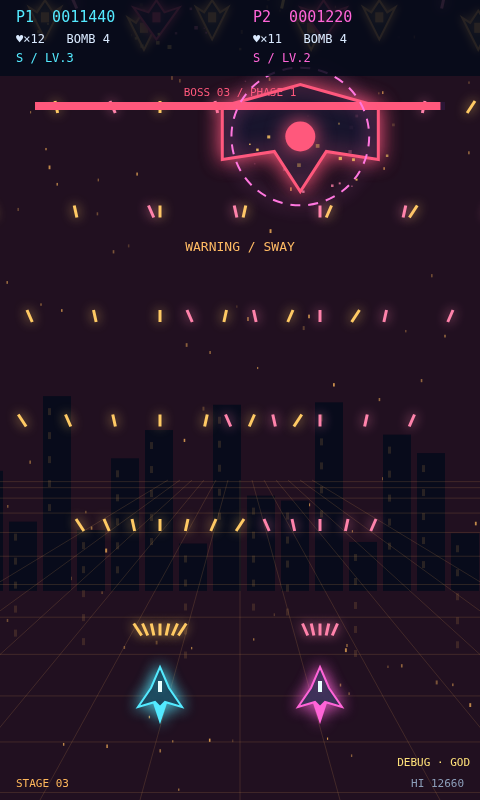
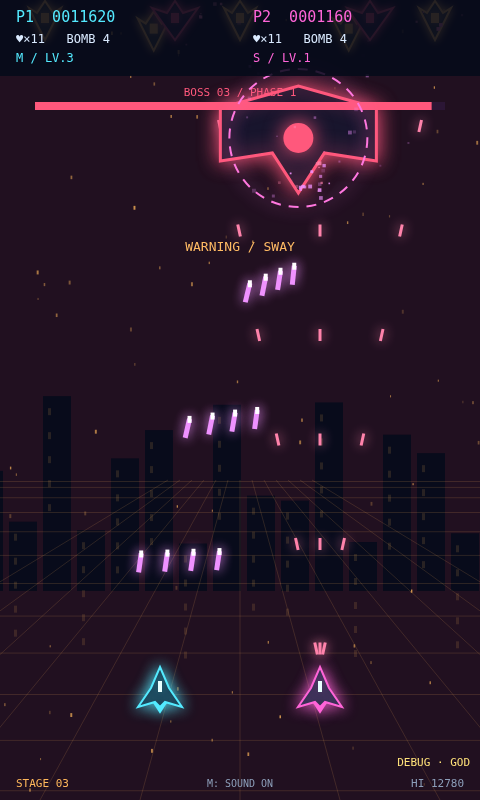
Add procedural Web Audio BGM and SFX (shots, bomb) with M mute toggle

diff --git a/js/audio.js b/js/audio.js
@@ -1,0 +1,126 @@
+// 离线合成音频。所有 Web Audio 操作都允许失败，游戏不等待音频。
+'use strict';
+(() => {
+  const safe = fn => { try { return fn(); } catch (error) {} };
+  let ctx, master, layer, current = '', next = 0, step = 0;
+  let muted = safe(() => localStorage.getItem('neon-vector-muted')) === 'true';
+  const shots = new Map();
+  NV.AUDIO = {
+    tracks: [
+      { name: 'harbor', root: 57, notes: [0, 7, 12, 10, 7, 3, 5, 7] },
+      { name: 'rift', root: 55, notes: [0, 3, 7, 10, 12, 7, 5, 3] },
+      { name: 'corona', root: 60, notes: [0, 5, 7, 12, 10, 7, 2, 5] }
+    ]
+  };
+  function tone(bus, time, frequency, duration, volume, type = 'sine', end = frequency, cutoff = 1400) {
+    const oscillator = ctx.createOscillator(), gain = ctx.createGain(), filter = ctx.createBiquadFilter();
+    oscillator.type = type;
+    oscillator.frequency.setValueAtTime(frequency, time);
+    oscillator.frequency.exponentialRampToValueAtTime(end, time + duration);
+    filter.type = 'lowpass'; filter.frequency.setValueAtTime(cutoff, time);
+    gain.gain.setValueAtTime(0, time);
+    gain.gain.linearRampToValueAtTime(volume, time + .008);
+    gain.gain.exponentialRampToValueAtTime(.0001, time + duration);
+    oscillator.connect(filter); filter.connect(gain); gain.connect(bus);
+    oscillator.onended = () => safe(() => { oscillator.disconnect(); filter.disconnect(); gain.disconnect(); });
+    oscillator.start(time); oscillator.stop(time + duration + .02);
+  }
+  function select(game) {
+    const data = NV.AUDIO.tracks[((game?.stage || 1) - 1) % NV.AUDIO.tracks.length];
+    const menu = !game || ['menu', 'gameover', 'victory'].includes(game.state);
+    const boss = !menu && !!game.boss;
+    return { data, name: menu ? 'menu' : (boss ? 'boss-' : 'stage-') + data.name,
+      beat: menu ? .48 : boss ? .21 : .34, root: menu ? 57 : data.root,
+      notes: menu ? [0, 4, 7, 11, 7, 4, 2, 7] : boss ? [0, 12, 7, 3, 0, 10, 7, 5] : data.notes };
+  }
+  function update(game) {
+    safe(() => {
+      const track = select(game), changed = current !== track.name;
+      current = track.name;
+      if (!ctx || ctx.state !== 'running') return;
+      const now = ctx.currentTime;
+      if (changed || !layer) {
+        if (layer) {
+          const old = layer;
+          old.gain.cancelScheduledValues(now);
+          old.gain.setTargetAtTime(0, now, .10);
+          // 已排音符最长 .7 秒；稍后释放旧总线。
+          if (typeof setTimeout === 'function') setTimeout(() => safe(() => old.disconnect()), 1500);
+        }
+        layer = ctx.createGain(); layer.gain.setValueAtTime(0, now);
+        layer.gain.linearRampToValueAtTime(1, now + .4); layer.connect(master);
+        next = now + .02; step = 0;
+      }
+      if (next < now) next = now + .02; // 标签页恢复时不补排历史音符。
+      while (next < now + .15) {
+        const note = track.notes[step % track.notes.length];
+        const hz = 440 * 2 ** ((track.root + note - 69) / 12);
+        tone(layer, next, hz, .65, .045, 'triangle');
+        if (step % 4 === 0) tone(layer, next, hz / 4, .7, .035);
+        next += track.beat; step++;
+      }
+    });
+  }
+  function unlock() {
+    safe(() => {
+      if (!ctx) {
+        const Audio = window.AudioContext || window.webkitAudioContext;
+        if (!Audio) return;
+        const candidate = new Audio();
+        try {
+          const bus = candidate.createGain(), compressor = candidate.createDynamicsCompressor();
+          bus.gain.setValueAtTime(muted ? 0 : .65, candidate.currentTime);
+          compressor.threshold.setValueAtTime(-18, candidate.currentTime);
+          compressor.ratio.setValueAtTime(8, candidate.currentTime);
+          bus.connect(compressor); compressor.connect(candidate.destination);
+          ctx = candidate; master = bus;
+        } catch (error) { safe(() => candidate.close()?.catch(() => {})); return; }
+        if (typeof setInterval === 'function') setInterval(() => update(NV.game), 25);
+      }
+      if (ctx.state === 'suspended') {
+        const pending = ctx.resume();
+        if (pending?.then) pending.then(() => update(NV.game)).catch(() => {});
+      }
+      update(NV.game);
+    });
+  }
+  function toggle() {
+    muted = !muted;
+    safe(() => localStorage.setItem('neon-vector-muted', String(muted)));
+    safe(() => master.gain.setTargetAtTime(muted ? 0 : .65, ctx.currentTime, .04));
+  }
+  NV.sound = Object.freeze({
+    unlock, toggle, update,
+    shoot(player) {
+      safe(() => {
+        if (!ctx || muted || ctx.state !== 'running') return;
+        const now = ctx.currentTime;
+        if (now - (shots.get(player.id) ?? -Infinity) < .08) return;
+        shots.set(player.id, now);
+        const voices = { N: [720, 320, 'sine'], S: [420, 160, 'triangle'], L: [1200, 600, 'sine'], M: [230, 70, 'triangle'] };
+        const [start, end, type] = voices[player.weapon] || voices.N;
+        tone(master, now, start, .065, .045, type, end, 1800);
+      });
+    },
+    bomb() {
+      safe(() => {
+        if (!ctx || muted || ctx.state !== 'running') return;
+        const now = ctx.currentTime, duration = .8;
+        const buffer = ctx.createBuffer(1, Math.ceil(ctx.sampleRate * duration), ctx.sampleRate);
+        const data = buffer.getChannelData(0);
+        for (let i = 0; i < data.length; i++) data[i] = Math.random() * 2 - 1;
+        const source = ctx.createBufferSource(), filter = ctx.createBiquadFilter(), gain = ctx.createGain();
+        source.buffer = buffer; filter.type = 'lowpass';
+        filter.frequency.setValueAtTime(800, now); filter.frequency.exponentialRampToValueAtTime(65, now + duration);
+        gain.gain.setValueAtTime(.16, now); gain.gain.exponentialRampToValueAtTime(.0001, now + duration);
+        source.connect(filter); filter.connect(gain); gain.connect(master);
+        source.onended = () => safe(() => { source.disconnect(); filter.disconnect(); gain.disconnect(); });
+        source.start(now); source.stop(now + duration);
+        tone(master, now, 95, .7, .18, 'sine', 28, 250);
+      });
+    }
+  });
+  Object.defineProperty(NV, 'audio', { value: Object.freeze({
+    loaded: true, get muted() { return muted; }, get ready() { return !!ctx; }, get track() { return current || 'menu'; }
+  }), writable: false });
+})();

diff --git a/js/input.js b/js/input.js
@@ -13,7 +13,10 @@ NV.input = {
   padPrevious: [],
   /* 注册键盘事件，并在窗口失焦时暂停。 */
   init() {
+    window.addEventListener('pointerdown', () => NV.sound?.unlock());
     window.addEventListener('keydown', event => {
+      NV.sound?.unlock();
+      if (event.code === 'KeyM' && !event.repeat && !this.held.has('KeyM')) NV.sound?.toggle();
       if (['Space', 'Enter', 'ArrowUp', 'ArrowDown', 'ArrowLeft', 'ArrowRight', 'Escape', 'Slash'].includes(event.code)) {
         event.preventDefault();
       }
@@ -40,6 +43,7 @@ NV.input = {
       gamepads = Array.from(navigator.getGamepads?.() || []).filter(Boolean);
     } catch (event) {}
     this.pads = gamepads;
+    if (gamepads.some(pad => pad.buttons.some(button => button.pressed) || pad.axes.some(axis => Math.abs(axis) > .18))) NV.sound?.unlock();
     for (let playerIndex = 0; playerIndex < gamepads.length; playerIndex++) {
       let gamepad = gamepads[playerIndex];
       let previousButtons = this.padPrevious[playerIndex] || [];

diff --git a/js/render.js b/js/render.js
@@ -251,6 +251,7 @@ NV.render = function (game) {
       text(player.weapon + ' / LV.' + player.level + (player.lives <= 0 ? '  OFFLINE' : ''), x, 62, 12, player.color, 'left');
     }
     text('STAGE 0' + game.stage, 16, 787, 11, theme.accent, 'left');
+    text('M: SOUND ' + (NV.audio.muted ? 'OFF' : 'ON'), 240, 787, 10, '#8c9eb9');
     text('HI ' + game.highScore, 464, 787, 11, '#8c9eb9', 'right');
   }
   if (game.state === 'menu') {
@@ -272,6 +273,7 @@ NV.render = function (game) {
     }
     text('↑ ↓ / W S 选择 · ENTER / SPACE 确认', 240, 584, 12);
     text('也可按 1 或 2 直接开始', 240, 610, 12, '#8c9eb9');
+    text('M: SOUND ' + (NV.audio.muted ? 'OFF' : 'ON'), 240, 638, 12, '#8c9eb9');
     text('P1  WASD · SPACE · Q', 240, 672, 12, '#54eaff');
     text('P2  方向键 · ENTER · 右 SHIFT', 240, 697, 12, '#ff65d8');
     text('P / ESC 暂停     HI ' + game.highScore, 240, 752, 12, '#8c9eb9');

diff --git a/js/main.js b/js/main.js
@@ -100,6 +100,7 @@
     update(deltaTime) {
       this.clock += deltaTime;
       NV.input.poll();
+      NV.sound?.update(this);
       const input = NV.input;
       if (this.state === 'menu') {
         if (input.tap('ArrowUp') || input.tap('KeyW') || input.tap('ArrowDown') || input.tap('KeyS')) {

diff --git a/js/player.js b/js/player.js
@@ -59,6 +59,7 @@ NV.updatePlayers = function (game, deltaTime) {
     }
     if (controls.bomb && player.bombs > 0) {
       player.bombs--;
+      NV.sound?.bomb();
       game.bullets = [];
       game.flash = .65;
       for (let enemy of game.enemies.concat(game.boss ? [game.boss] : [])) {

diff --git a/index.html b/index.html
@@ -17,6 +17,7 @@
       ></canvas>
     </main>
     <script src="js/input.js"></script>
+    <script src="js/audio.js"></script>
     <script src="js/difficulty.js"></script>
     <script src="js/weapons.js"></script>
     <script src="js/player.js"></script>

diff --git a/js/weapons.js b/js/weapons.js
@@ -9,6 +9,7 @@ NV.weaponColors = {
 };
 /* 按武器和等级生成子弹，保留玩家归属。 */
 NV.shoot = function (game, player) {
+  NV.sound?.shoot(player);
   let level = player.level;
   let weapon = player.weapon;
   let color = player.id ? {

diff --git a/tests/browser-verify.py b/tests/browser-verify.py
@@ -22,6 +22,15 @@ async def main():
         b=await p.chromium.launch()
         # 仅测试脚本注入状态，不添加游戏调试键；file:// 离线验证。
         pg=await newpage(b,BASE)
+        assert await pg.evaluate("NV.audio.loaded === true && NV.audio.ready === false")
+        muted = await pg.evaluate("NV.audio.muted")
+        await pg.keyboard.press('KeyX')
+        await pg.wait_for_function("NV.audio.ready === true")
+        await pg.keyboard.press('KeyM')
+        assert await pg.evaluate("NV.audio.muted") != muted
+        await pg.keyboard.press('KeyM')
+        assert await pg.evaluate("NV.audio.muted") == muted
+        results['audio'] = await pg.evaluate("({...NV.audio})")
         await pg.keyboard.press('Digit2')
         await pg.wait_for_function("NV.game.players.length===2 && NV.game.mode===2")
         assert all(p['lives']==10 for p in (await snap(pg))['players'])
@@ -166,4 +175,5 @@ async def main():
         await b.close()
     print(json.dumps(results,ensure_ascii=False,indent=0))
     print("ERRORS:",errors)
+    assert not errors, errors
 asyncio.run(main())

diff --git a/README.md b/README.md
@@ -7,6 +7,7 @@
 - 菜单：上下键或 W/S 选择，Enter / 空格确认；1 / 2 直接开始单人 / 双人。
 - P1：WASD 移动，空格射击，Q 或左 Shift 炸弹。
 - P2：方向键移动，Enter 射击，右 Shift 或 / 炸弹。
+- M：切换声音开关，自动保存静音设置。
 - P 或 Esc 暂停 / 继续；结束或通关后 Enter / R 返回菜单。
 - 手柄：第一个已连接手柄控制 P1，第二个控制 P2。左摇杆 / 十字键移动，A 射击，B 炸弹，Start 暂停；菜单可按第一个手柄 Start 开始。手柄 API 是否可用取决于浏览器及 file:// 安全策略；键盘始终可玩。
 
@@ -121,3 +122,11 @@ node tests/sim-test.cjs
 python tests/browser-verify.py
 python tests/browser-verify-drops.py
 ```
+
+## 合成音频
+
+所有声音由 Web Audio API 在本地程序化合成，无音频文件、依赖或网络请求。首次键盘、指针或手柄操作后才创建 / 恢复 AudioContext；不支持音频、播放失败或禁止本地存储时仍可正常游玩。M 键没有与现有操作冲突，菜单及底部 HUD 显示 SOUND ON/OFF，静音设置保存到 localStorage。
+
+菜单、关卡和 Boss 使用不同旋律与速度，关卡按 `NV.AUDIO.tracks` 数组取模选择调式，可继续添加关卡曲目。音乐采用 25ms lookahead 调度、柔和波形与低通滤波，切换时淡入淡出。四种武器各有低音量短音，每位玩家限流 80ms；炸弹使用滤波噪声与低频正弦下滑。声音统一经过主音量总线和压缩器。
+
+`NV.audio` 是冻结的只读状态入口：`loaded`、`muted`、`ready`（已创建 context）与 `track`（menu / stage-曲目 / boss-曲目）。`js/audio.js` 在 input.js 后加载。离线模拟包含无 AudioContext、存储禁用、首次解锁、音效节流、炸弹触发及曲目切换；浏览器脚本在普通 URL 下检查 loaded、交互解锁及 M 往返切换。
